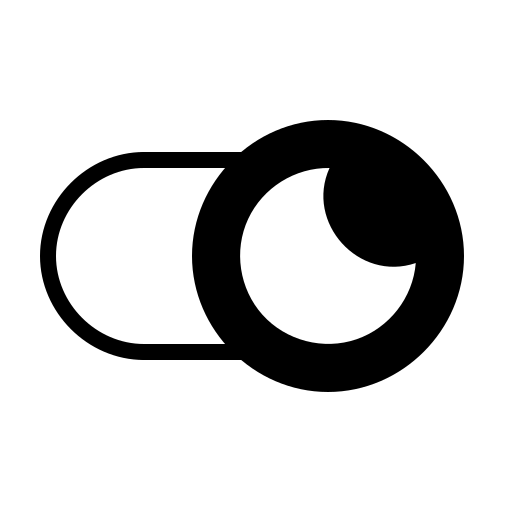
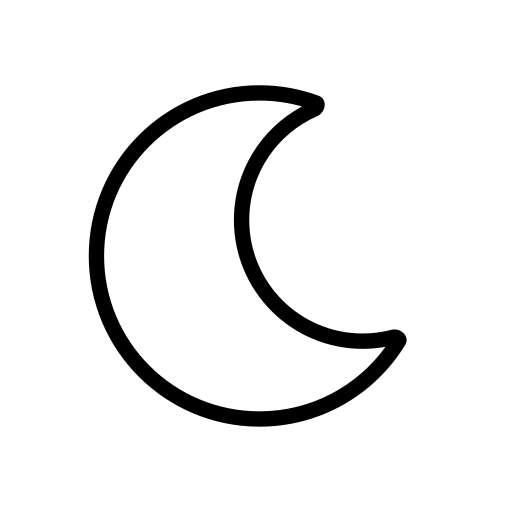
"fix(header-footer): Ajuste de botón claro oscuro, redirección del botón oportunidades y actualización ruta linkind en footer.

Changed region(s): [[0.0625, 0.1562, 0.9062, 0.8438]]

diff --git a/app/components/Header.tsx b/app/components/Header.tsx
@@ -1,14 +1,54 @@
-import { useState } from "react";
+import { useEffect, useState } from "react";
 import { Link } from "@remix-run/react";
 
-export default function Header() {
+export default function Header({ isLoggedIn }) {
+  
   const [isModalOpen, setIsModalOpen] = useState(false);
-  const [currentLanguage, setCurrentLanguage] = useState("ESP");
-  const [darkMode, setDarkMode] = useState(false);
+  
+  const [currentLanguage, setCurrentLanguage] = useState(() => {
+    return typeof window !== "undefined" && localStorage.getItem("language")
+      ? localStorage.getItem("language")
+      : "ESP";
+  });
+  
+  
+  const [darkMode, setDarkMode] = useState(() => {
+    if (typeof window !== "undefined") {
+      return localStorage.getItem("theme") === "dark";
+    }
+    return false;
+  });
+
+
+  useEffect(() => {
+    if (typeof window !== "undefined") {
+      const storedLanguage = localStorage.getItem("language");
+      if (storedLanguage) {
+        setCurrentLanguage(storedLanguage);
+      }
+    }
+  }, []);
+
+  
+  useEffect(() => {
+    if (darkMode) {
+      document.documentElement.classList.add("dark");
+      localStorage.setItem("theme", "dark");
+    } else {
+      document.documentElement.classList.remove("dark");
+      localStorage.setItem("theme", "light");
+    }
+  }, [darkMode]);
 
   const toggleModal = () => setIsModalOpen(!isModalOpen);
-  const toggleLanguage = () => setCurrentLanguage(currentLanguage === "ESP" ? "ENG" : "ESP");
-  const toggleDarkMode = () => setDarkMode(!darkMode);
+  
+  const toggleLanguage = () => {
+    const newLanguage = currentLanguage === "ESP" ? "ENG" : "ESP";
+    setCurrentLanguage(newLanguage);
+    localStorage.setItem("language", newLanguage);
+  };
+  
+  const toggleDarkMode = () => setDarkMode((prev) => !prev);
 
   return (
     <>
@@ -24,10 +64,17 @@ export default function Header() {
             </Link>
 
             {/* Se crea navbar */}
-
+            
             <nav className="hidden md:flex space-x-6">
               <Link to="/" className="text-white hover:text-yellow-300">
                 Inicio
+              </Link>
+
+              <Link
+                to={isLoggedIn ? "/novedades" : "/?oportunidades"}
+                className="text-white hover:text-yellow-300"
+              >
+                Oportunidades
               </Link>
 
               <Link
@@ -35,13 +82,6 @@ export default function Header() {
                 className="text-white hover:text-yellow-300"
               >
                 Servicios
-              </Link>
-
-              <Link
-                to="/novedades"
-                className="text-white hover:text-yellow-300"
-              >
-                Oportunidades
               </Link>
             </nav>
 
@@ -91,7 +131,7 @@ export default function Header() {
               to="/register"
               className="px-4 py-2 bg-white text-[#32526E] rounded-md font-semibold shadow hover:bg-yellow-300 transition"
             >
-              Registaté
+              Registraté
             </Link> */}
           </div>
 
@@ -111,10 +151,9 @@ export default function Header() {
               onClick={toggleDarkMode}
               className="transition-transform transform hover:scale-110"
             >
-              <img
-                src="/assets/images/modo-oscuro.png"
-                alt={darkMode ? "Light Mode" : "Dark Mode"}
-                className="w-12 h-12 object-contain filter invert brightness-0"
+              <img src={darkMode ? "/assets/images/modo-claro.png" : "/assets/images/modo-oscuro.png"} 
+              alt={darkMode ? "Light Mode" : "Dark Mode"} 
+              className="w-12 h-12 object-contain filter invert brightness-0"
               />
             </button>
           </div>

diff --git a/app/routes/_index.tsx b/app/routes/_index.tsx
@@ -1,4 +1,4 @@
-import { useEffect, useRef } from "react";
+import { useEffect, useRef, useState } from "react";
 import { useSearchParams } from "@remix-run/react";
 import Header from "~/components/Header";
 import Inicio from "~/components/Inicio";
@@ -8,17 +8,36 @@ import { Services } from "~/components/Services";
 export default function Index() {
   const [searchParams] = useSearchParams();
   const servicesRef = useRef<HTMLDivElement>(null);
+  const opportunitiesRef = useRef<HTMLDivElement>(null);
+  const [isLoggedIn, setIsLoggedIn] = useState(false);
+
+
+
+  // Verificar si el usuario está autenticado y direccionar
+
+  useEffect(() => {
+    const userToken = localStorage.getItem("token");
+    setIsLoggedIn(!!userToken);
+    }, []);
+
 
   useEffect(() => {
     if (searchParams.has("servicios") && servicesRef.current) {
       servicesRef.current.scrollIntoView({ behavior: "smooth" });
     }
+
+    if (searchParams.has("oportunidades") && opportunitiesRef.current) {
+      opportunitiesRef.current.scrollIntoView({ behavior: "smooth" });
+    }
+
   }, [searchParams]);
 
   return (
     <div className="flex flex-col justify-center items-center">
-      <Header />
+      <Header isLoggedIn={isLoggedIn} />
       <Inicio />
+      <div ref={opportunitiesRef}>
+      </div>
       <Oportunity />
       <div ref={servicesRef}>
       </div>

diff --git a/app/root.tsx b/app/root.tsx
@@ -8,7 +8,6 @@ import {
 import Header from "~/components/Header";  // Importar el Header
 import Footer from "~/components/Footer";  // Importar el Footer
 import type { LinksFunction } from "@remix-run/node";
-
 import "./tailwind.css";
 
 export const links: LinksFunction = () => [
@@ -24,9 +23,10 @@ export const links: LinksFunction = () => [
   },
 ];
 
-export function Layout({ children }: { children: React.ReactNode }) {
+
+export default function App() {
   return (
-    <html lang="en">
+    <html lang="es">
       <head>
         <meta charSet="utf-8" />
         <meta name="viewport" content="width=device-width, initial-scale=1" />
@@ -34,28 +34,12 @@ export function Layout({ children }: { children: React.ReactNode }) {
         <Links />
       </head>
       <body>
-        {children}
+          <Header />
+          <Outlet />
+          <Footer />
         <ScrollRestoration />
         <Scripts />
       </body>
     </html>
-  );
-}
-
-export default function App() {
-  return (
-    <>
-      {/* Aquí va el header */}
-      <Header />
-
-      {/* Aquí va el contenido de cada ruta */}
-      <Outlet />
-
-      {/* Aquí va el footer */}
-      <Footer />
-
-      <ScrollRestoration />
-      <Scripts />
-    </>
   );
 }

diff --git a/app/components/Oportunity.tsx b/app/components/Oportunity.tsx
@@ -49,7 +49,7 @@ export default function Oportunity(){
         ]
     return (
         <div className="w-11/12">
-            <h2 className="text-[52px] text-[#1D1856] text-center font-bold py-20">¡Mira estás oportunidades! </h2>
+            <h2 className="text-[52px] text-[#1D1856] text-center font-bold py-20">¡Mira estás oportunidades!</h2>
             <Swiper 
                 slidesPerView={3}
                 spaceBetween={10}

diff --git a/app/components/Footer.tsx b/app/components/Footer.tsx
@@ -34,7 +34,7 @@ const Footer = () => {
 
         {/* LinkedIn */}
         <a
-          href="https://www.linkedin.com/in/somosantivirus"
+          href="https://www.linkedin.com/company/antivirus-desercion/?originalSubdomain=co"
           target="_blank"
           rel="noopener noreferrer"
         >

diff --git a/tailwind.config.ts b/tailwind.config.ts
@@ -1,6 +1,7 @@
 import type { Config } from "tailwindcss";
 
 export default {
+  darkMode: "class",
   content: ["./app/**/{**,.client,.server}/**/*.{js,jsx,ts,tsx}"],
   theme: {
     extend: {

diff --git a/app/routes/oportunity.tsx b/app/routes/oportunity.tsx
@@ -1,0 +1,3 @@
+export default function Oportunity() {
+    return <h2>¡Mira estás oportunidades!</h2>;
+  }
